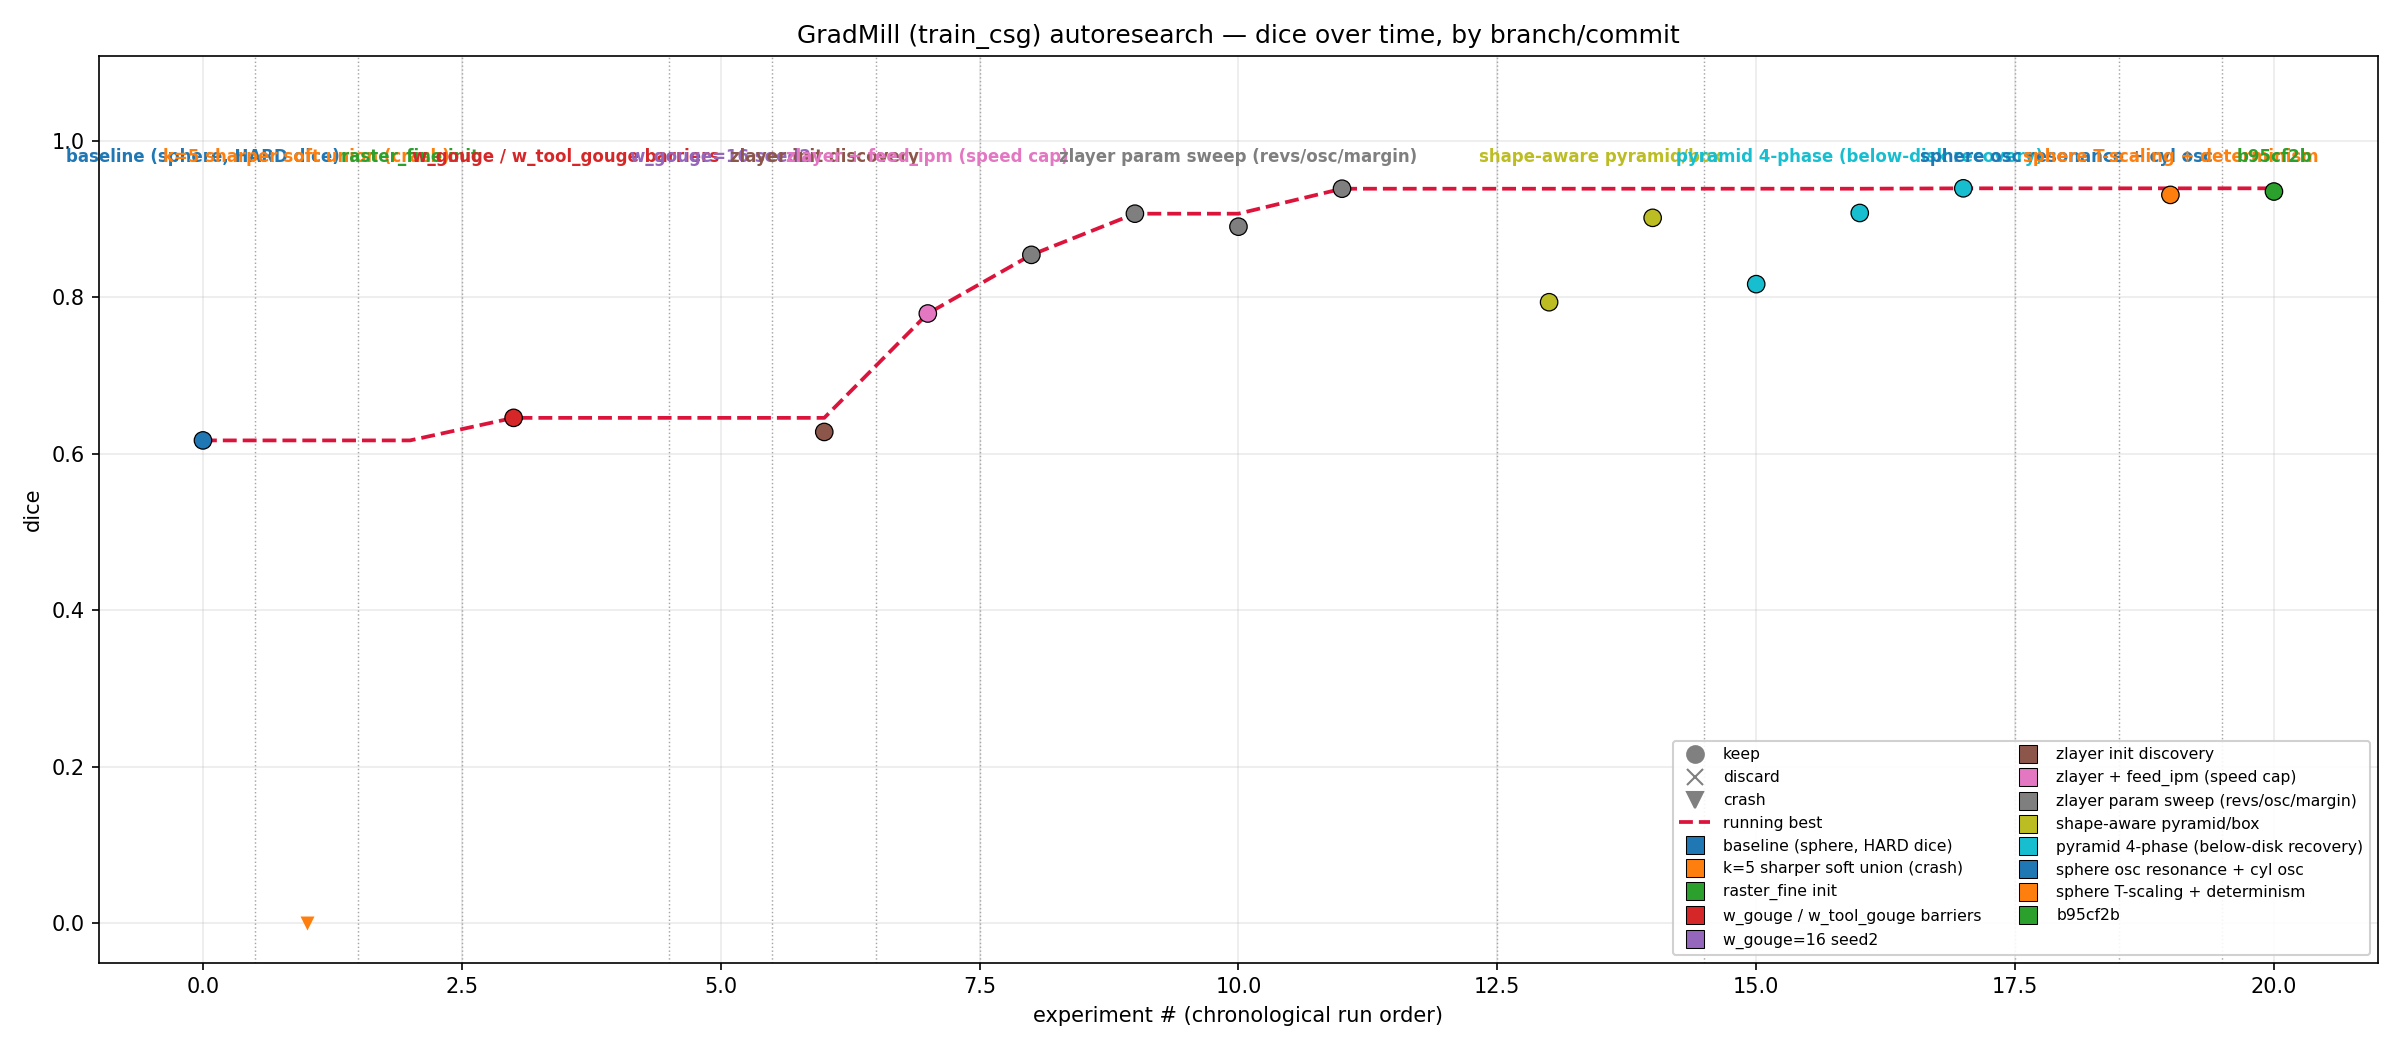
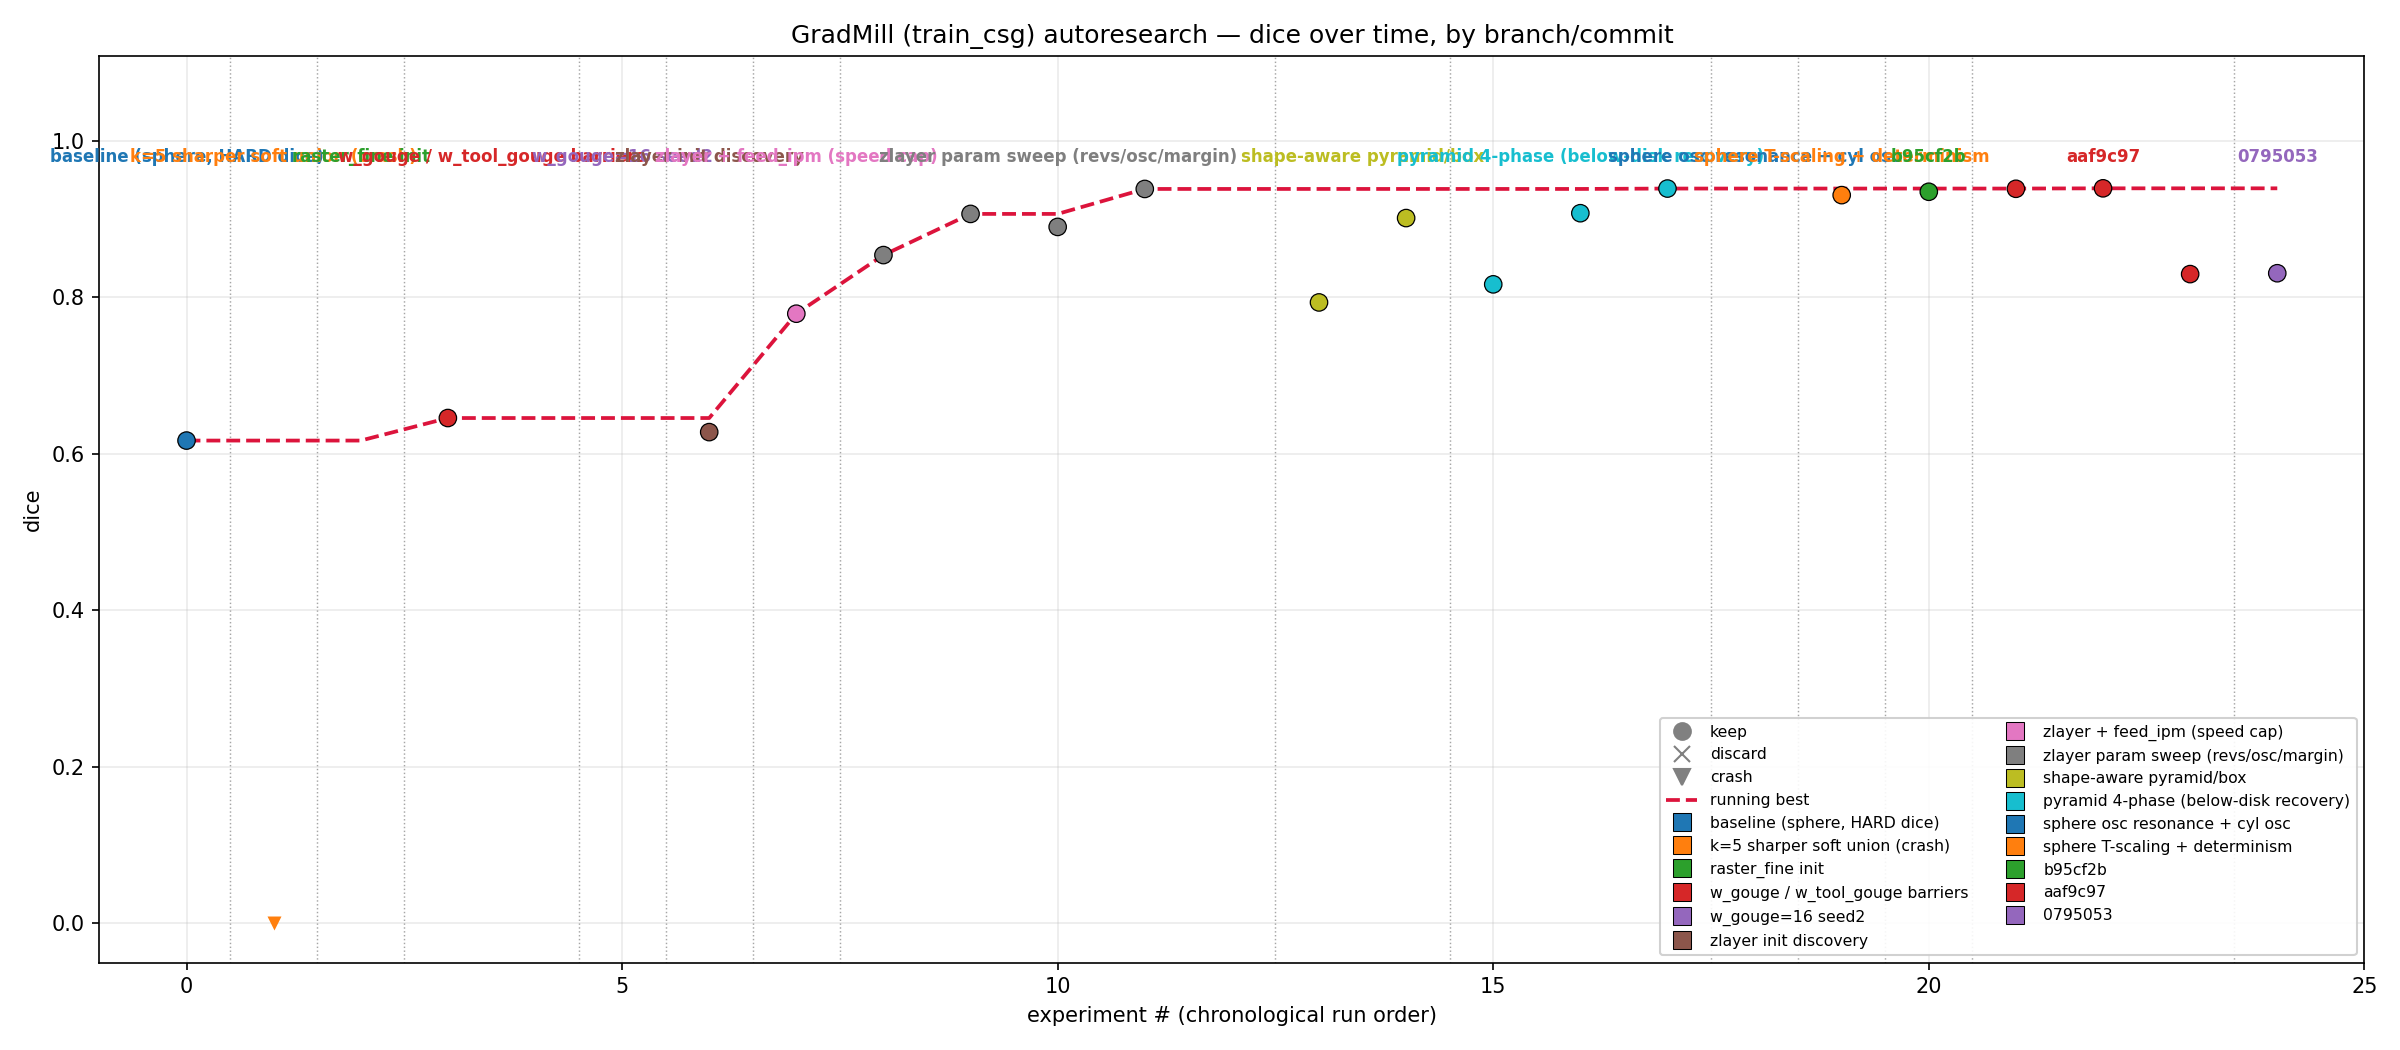
results: sphere T4096 0.9393, pyramid tuned 0.8308; mean 0.903 (+0.258 over baseline)

diff --git a/autoresearch/tasks/train_csg/findings.md b/autoresearch/tasks/train_csg/findings.md
@@ -15,16 +15,17 @@ the init, @ iter 0).
 
 | shape    | baseline | zlayer  | delta   | T    |
 |----------|----------|---------|---------|------|
-| sphere   | 0.617    | 0.9349  | +0.318  | 2048 |
+| sphere   | 0.617    | 0.9393  | +0.322  | 4096 |
 | cylinder | 0.718    | 0.9390  | +0.221  | 512  |
 | box      | 0.814    | 0.9014  | +0.087  | 384  |
-| pyramid  | 0.43     | 0.8166  | +0.387  | 512  |
-| **mean** | **0.645**| **0.898**| **+0.253**|  |
+| pyramid  | 0.43     | 0.8308  | +0.401  | 512  |
+| **mean** | **0.645**| **0.903**| **+0.258**|  |
 
-At a fixed T=512 (sphere 0.9075) the mean is 0.891. All four verified under the
-trainer's clipped eval; all four @ iter 0 (the init), preserved by
+All verified under the trainer's clipped eval; all four @ iter 0 (the init), preserved by
 best-checkpoint because soft optimization collapses every one (final-iter dice
-0.43–0.61). **Search converged** — all four at tool-radius-limited ceilings.
+0.43–0.61). Sphere scales with T (saturating ~0.94); cyl/box at tool-radius
+ceilings; pyramid tuned via 4-phase budget rebalancing (above/below trimmed,
+beside densified).
 
 ## The method
 
